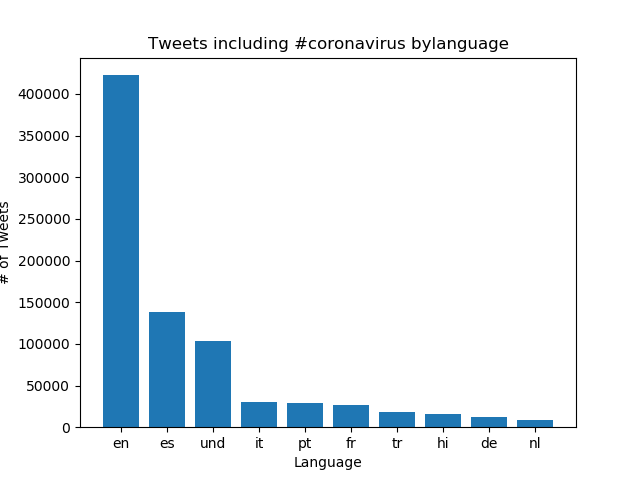
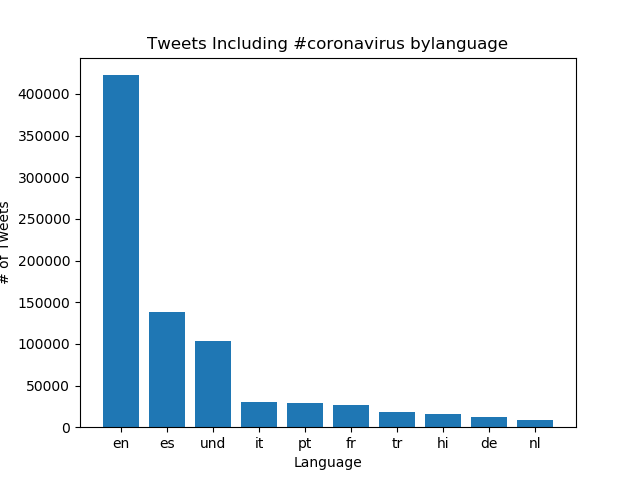
attempt 7

Changed region(s): [[0.2188, 0.0625, 0.7812, 0.125]]

diff --git a/src/visualize.py b/src/visualize.py
@@ -42,14 +42,14 @@ ind = np.arange(n)
 fig = plt.bar(ind, values)
 plt.ylabel('# of Tweets')
 plt.xticks(ind, keys)
-title = 'Tweets including'
+title = 'Tweets Including'
 if "coronavirus" in args.key:
     title += f' {args.key} by'
 else:
-    title += " the Korean coronavirus hashtag by"
+    title += " the Korean Coronavirus Hashtag by"
 if "country" in args.input_path:
-    title += ' country'
-    axis = 'Country'
+    title += ' Country'
+    axis = 'Country Code'
 else:
     title += 'language'
     axis = 'Language'
